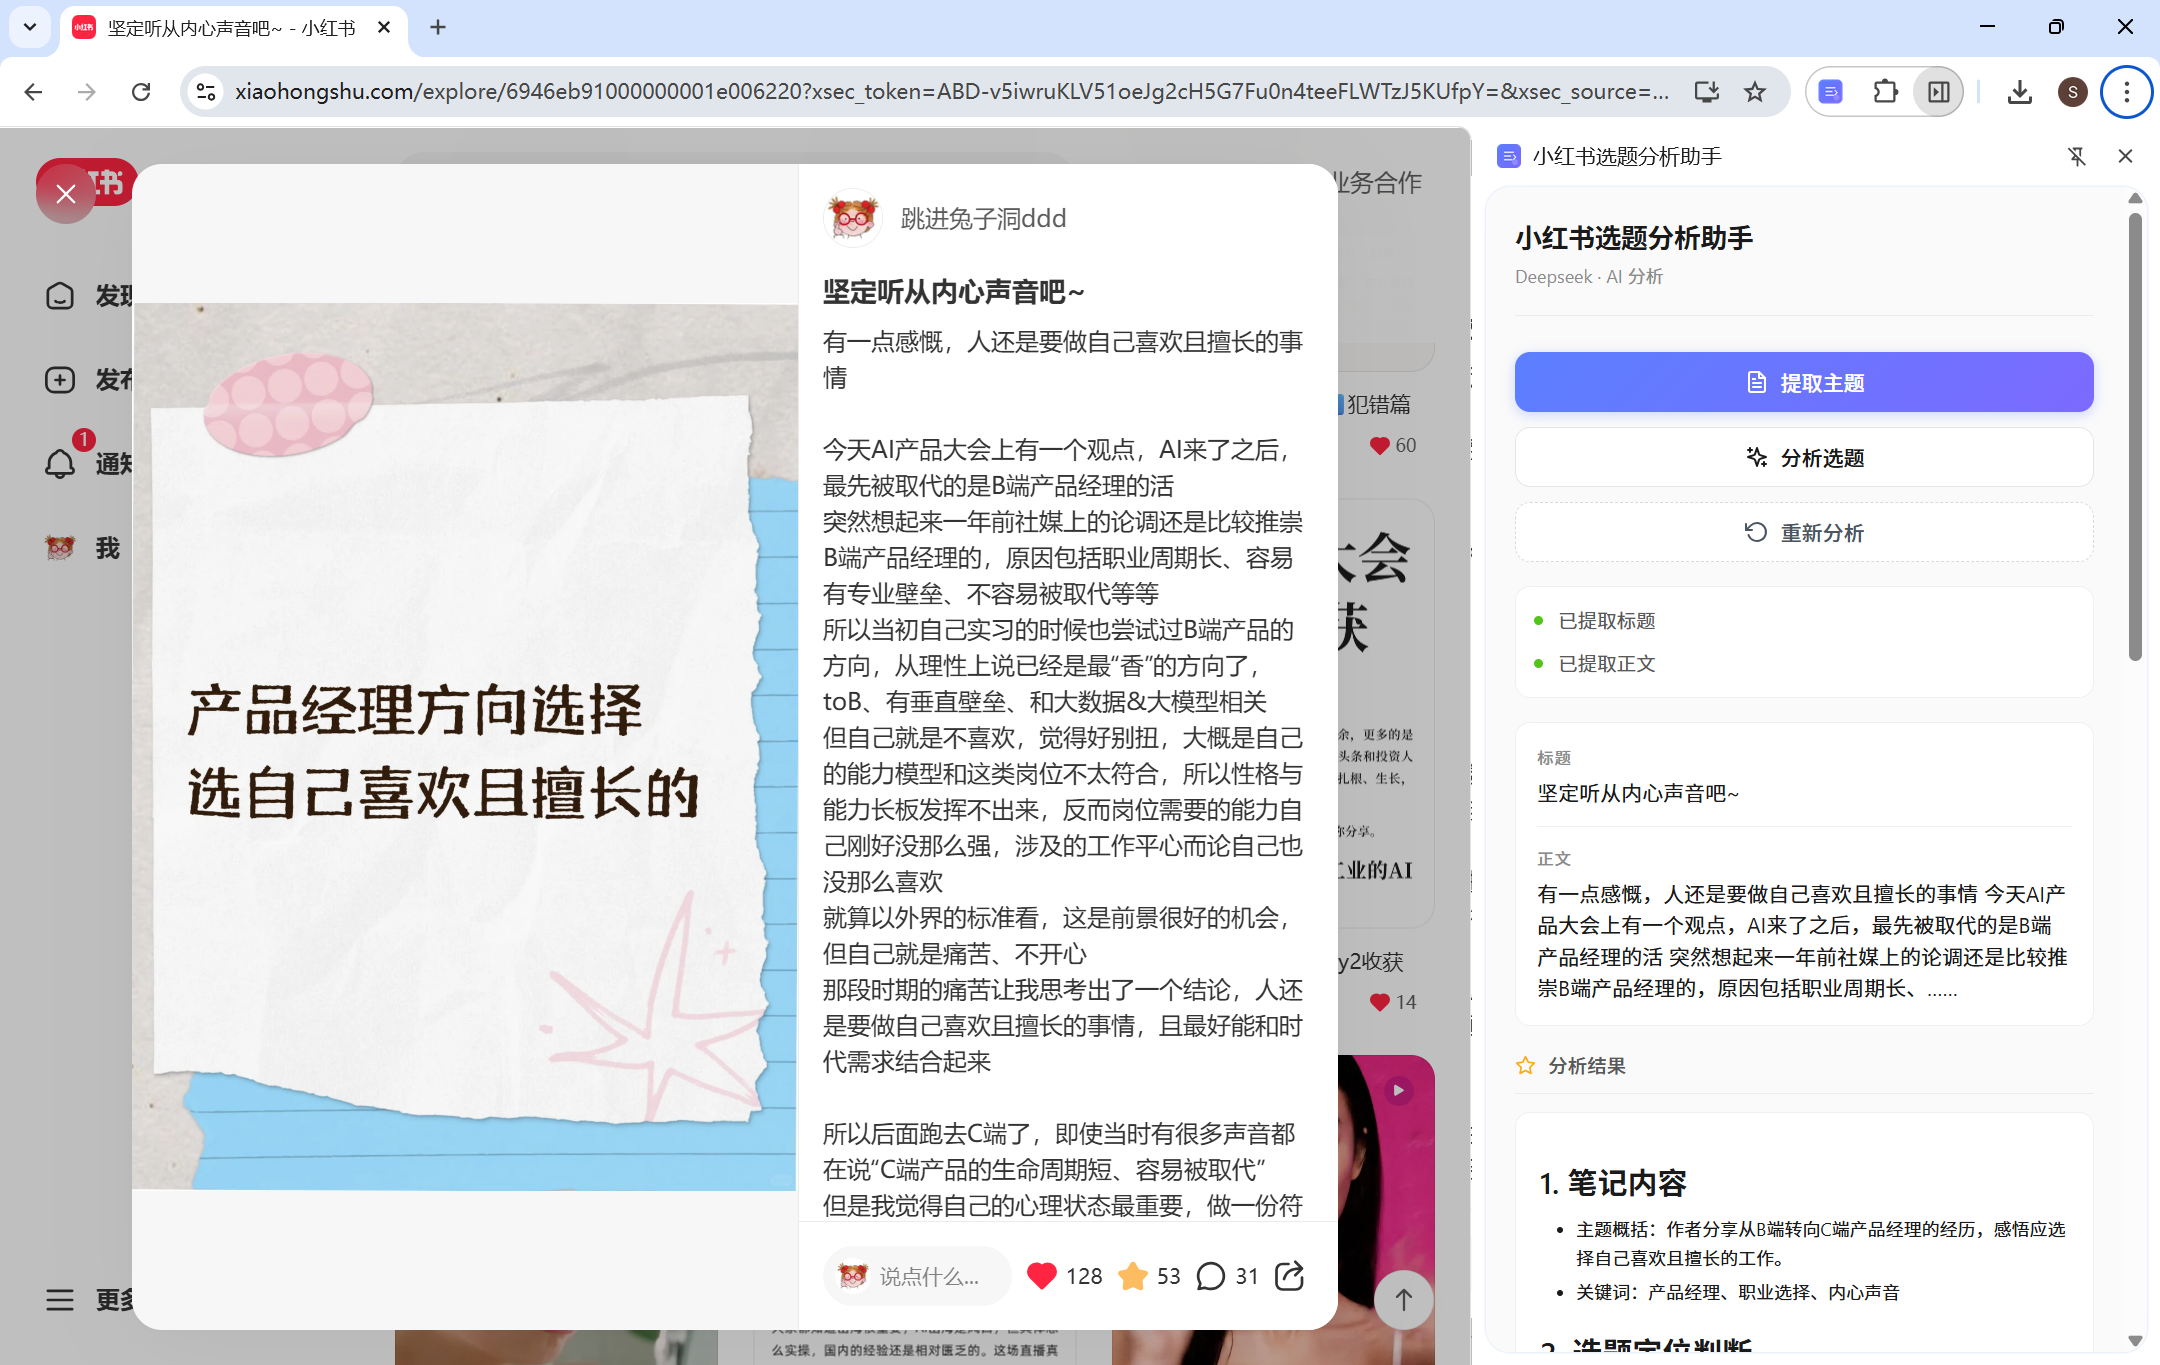
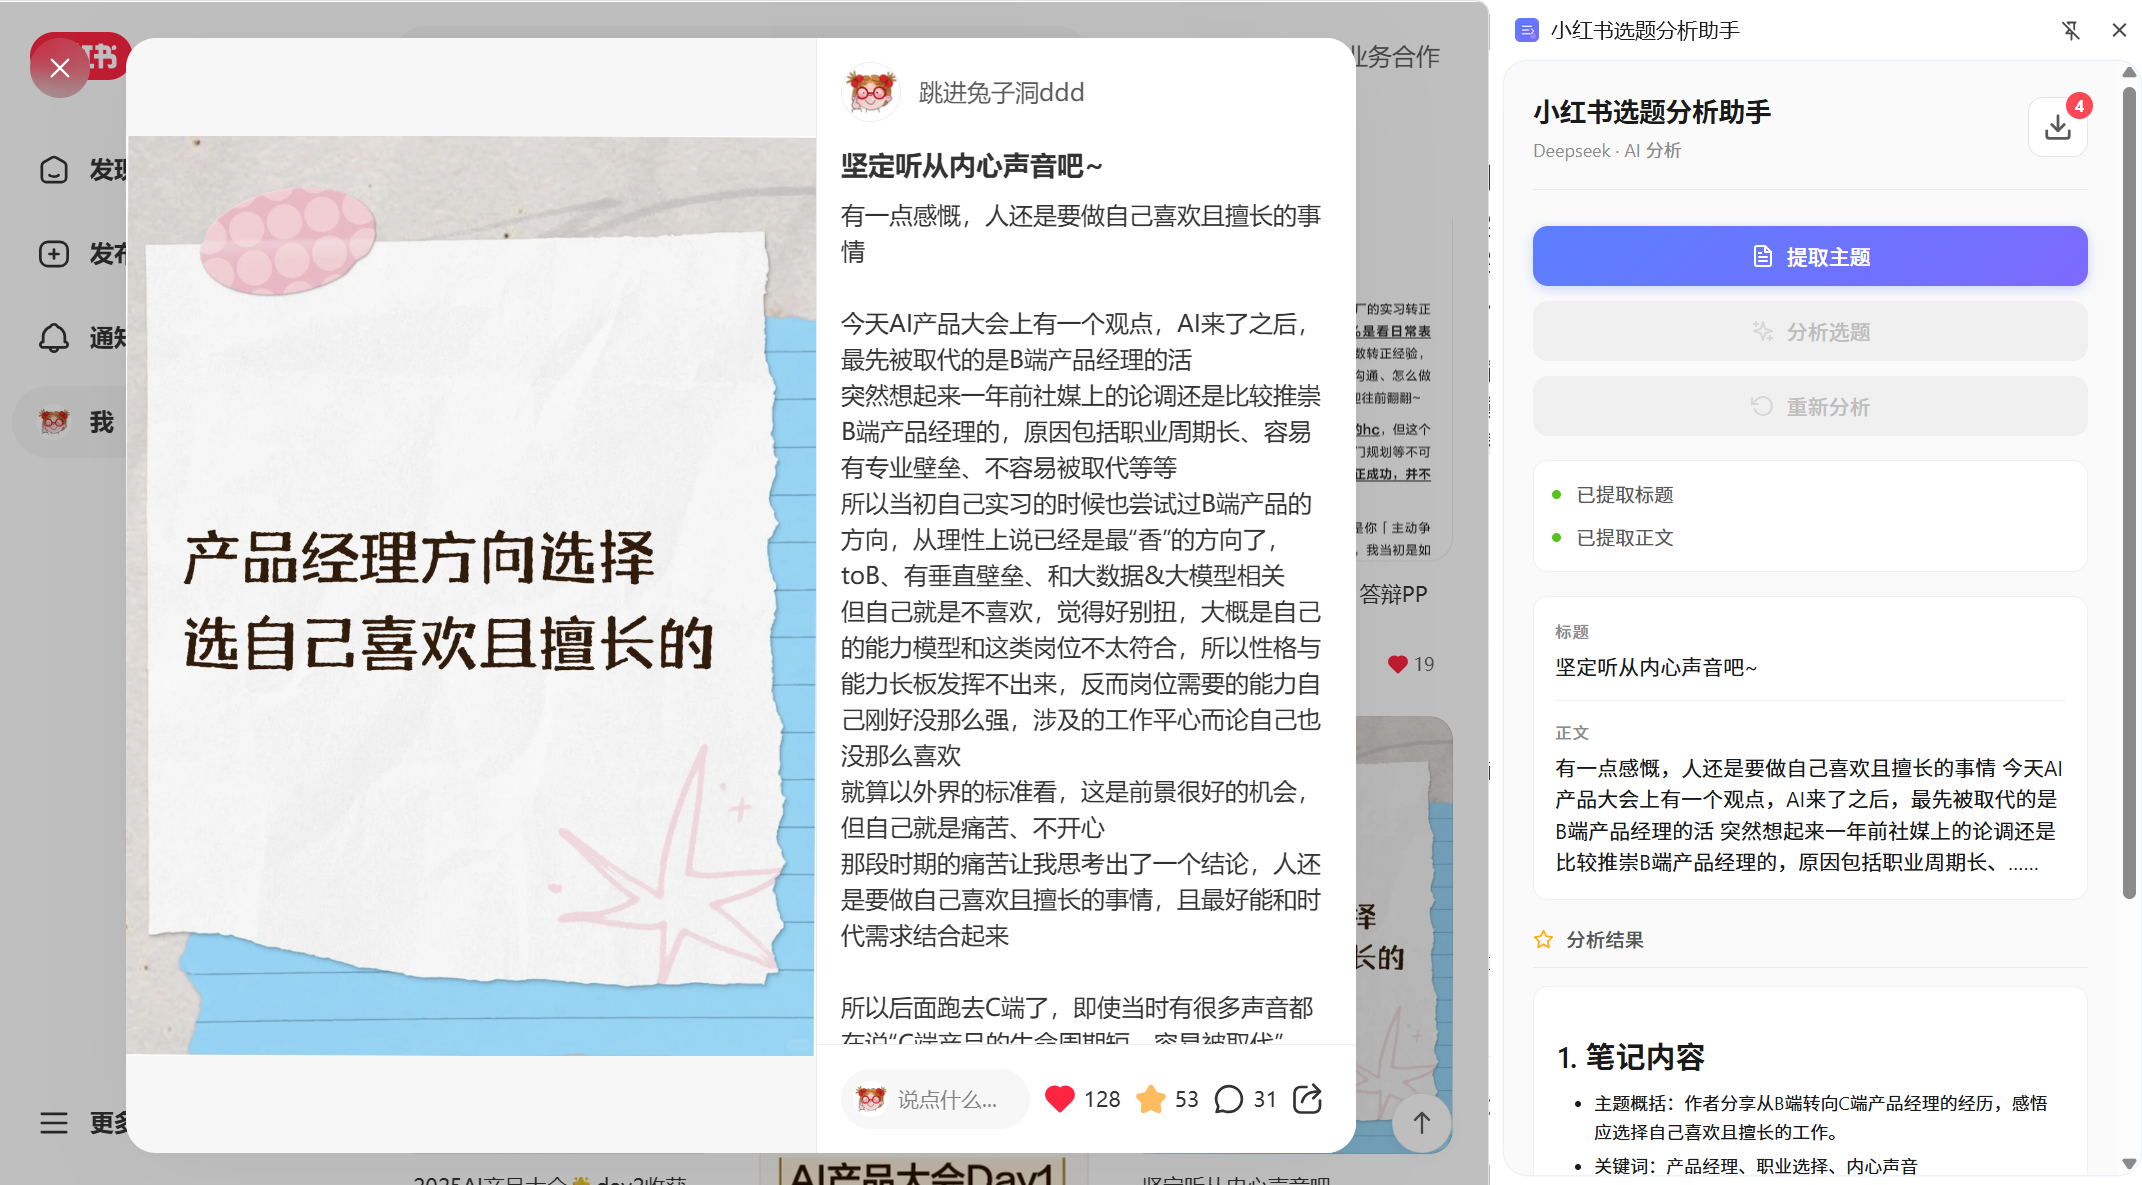
修改readme演示截图

diff --git a/README.md b/README.md
@@ -20,6 +20,12 @@
   <img src="image_preview/插件截图3.png" width="45%" />
 </p>
 
+<p align="center">
+  <img src="image_preview/插件截图4.png" width="45%" />
+  <img src="image_preview/插件截图5.png" width="45%" />
+</p>
+
+![插件截图1](image_preview/插件截图6.png)
 ## 分析内容
 
 插件会调用 DeepSeek AI 对小红书笔记进行深度分析，输出以下内容：
